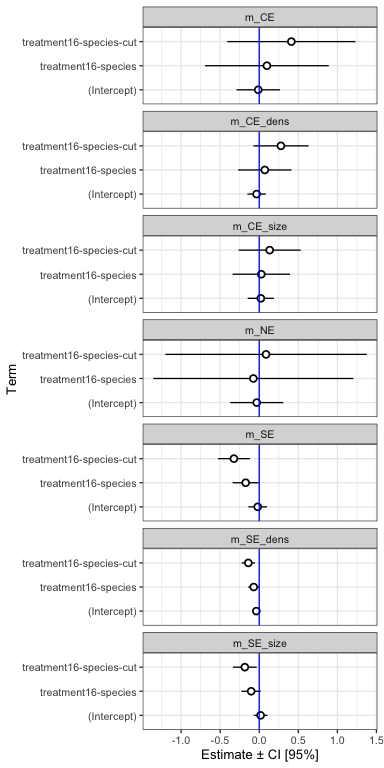
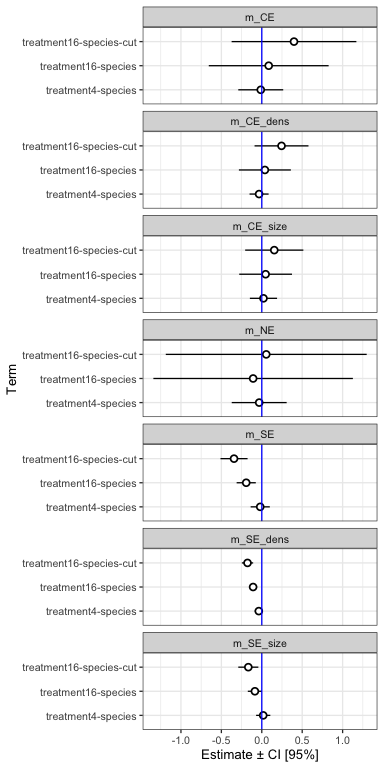
Update note

diff --git a/code/notebooks/2026-03-19_densize-package.md b/code/notebooks/2026-03-19_densize-package.md
@@ -946,7 +946,7 @@ Try some quick models
 data_mod <- 
   result %>% 
   left_join(genus_data) %>% 
-  left_join(canopy_data)
+  left_join(canopy_data) 
 ```
 
 ``` r
@@ -979,25 +979,25 @@ better but will try Gaussian first.
 
 ``` r
 m_NE <- 
-  lme4::lmer(net ~ treatment + (1 |species_mix), data_mod) 
+  lme4::lmer(net ~ 0 + treatment + (1 |species_mix), data_mod) 
 
 m_CE <- 
-  lme4::lmer(compl ~ treatment + (1 |species_mix), data_mod) 
+  lme4::lmer(compl ~ 0 + treatment + (1 |species_mix), data_mod) 
 
 m_CE_size <- 
-  lme4::lmer(size.compl ~ treatment + (1 |species_mix), data_mod) 
+  lme4::lmer(size.compl ~ 0 + treatment + (1 |species_mix), data_mod) 
 
 m_CE_dens <- 
-  lme4::lmer(dens.compl ~ treatment + (1 |species_mix), data_mod) 
+  lme4::lmer(dens.compl ~ 0 + treatment + (1 |species_mix), data_mod) 
 
 m_SE <- 
-  lme4::lmer(selec ~ treatment + (1 |species_mix), data_mod) 
+  lme4::lmer(selec ~ 0 + treatment + (1 |species_mix), data_mod) 
 
 m_SE_size <- 
-  lme4::lmer(size.selec ~ treatment + (1 |species_mix), data_mod) 
+  lme4::lmer(size.selec ~ 0 + treatment + (1 |species_mix), data_mod) 
 
 m_SE_dens <- 
-  lme4::lmer(dens.selec ~ treatment + (1 |species_mix), data_mod) 
+  lme4::lmer(dens.selec ~ 0 + treatment + (1 |species_mix), data_mod) 
 ```
 
 Getting singular fits for all the selection effect models
@@ -1014,7 +1014,11 @@ my_coef_tab <-
     robust = TRUE,
     conf.int = TRUE
   )) %>%
-  unnest(tidy)
+  unnest(tidy) %>% 
+  mutate(term = fct_relevel(term, 
+                            "treatment4-species", 
+                            "treatment16-species",
+                            "treatment16-species-cut"))
 ```
 
 ``` r
